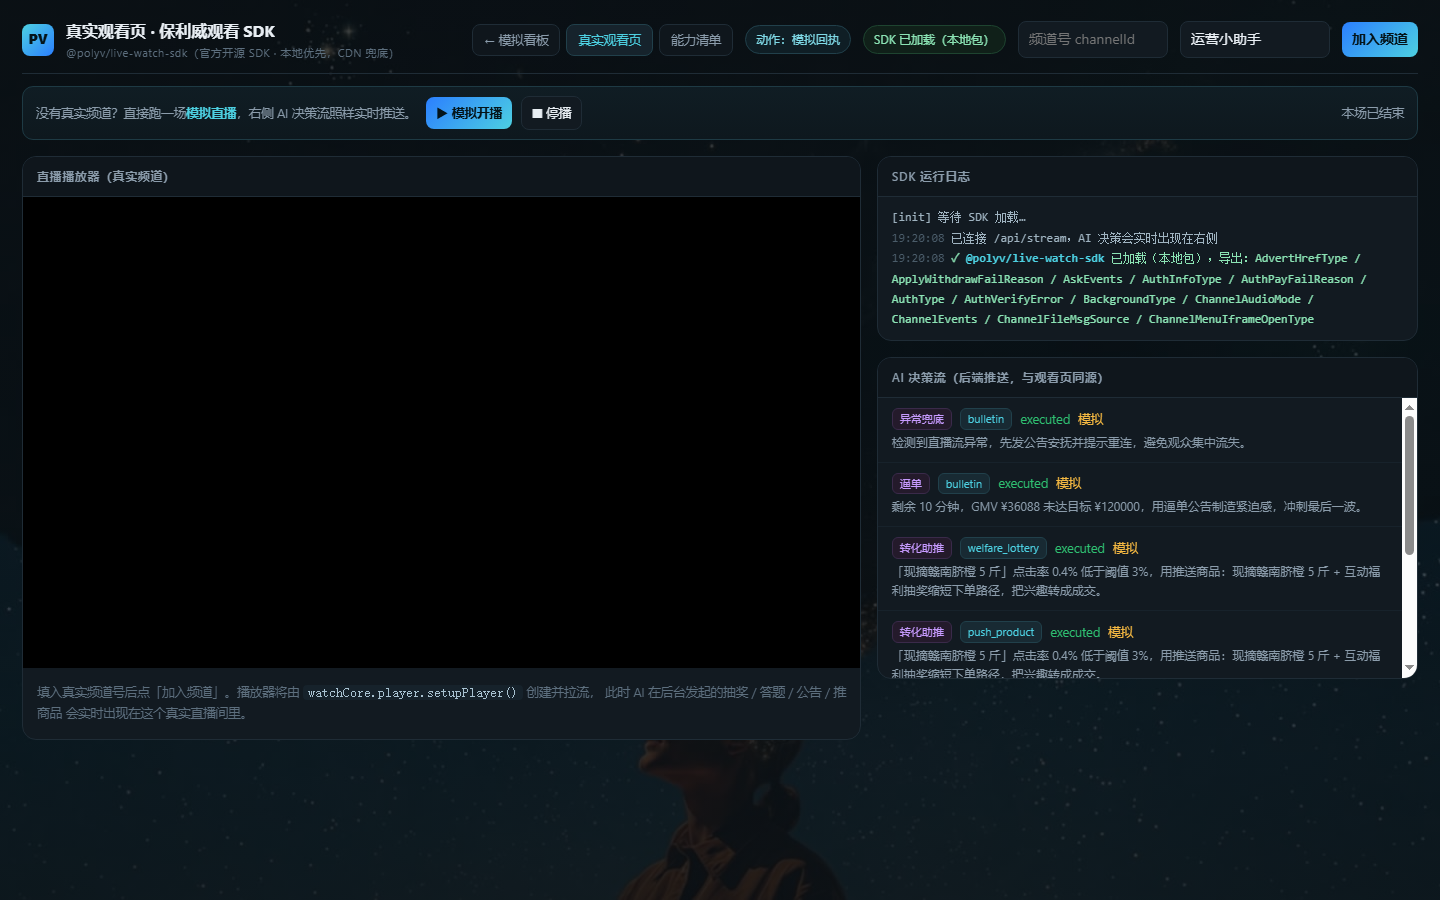
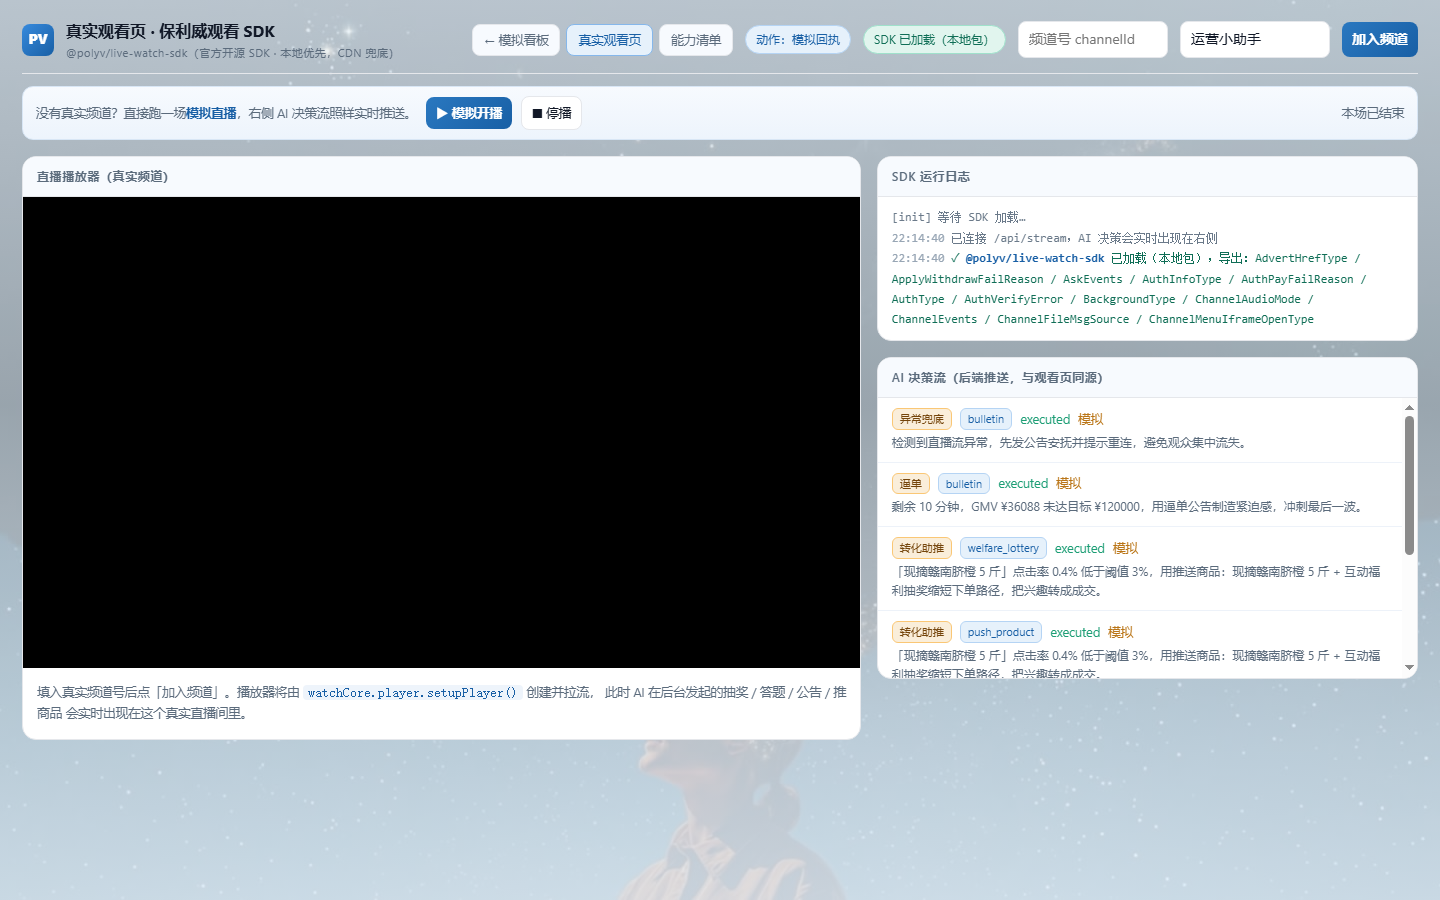
style(watch-lite): 观看页配色对齐驾驶舱主页 —— brand-50 底/白面板/gray-900 文字/brand-600 主色，遮罩改浅色薄纱保留背景视频

diff --git a/frontend/watch/index.html b/frontend/watch/index.html
@@ -5,32 +5,35 @@
 <meta name="viewport" content="width=device-width, initial-scale=1" />
 <title>LivePilot · 真实观看页（保利威观看 SDK）</title>
 <style>
-  :root{--bg:#0b1014;--panel:#121a21;--panel2:#0f161c;--line:#1f2c36;--txt:#e8eef3;--dim:#8b9cab;--faint:#5d6f7e;
-    --ai:#4dd0e1;--up:#ff5a5f;--ok:#2fbf71;--warn:#f5b942}
+  /* 调色板与驾驶舱主页（frontend/src + tailwind.config.ts）对齐：
+     底 brand-50 #E6F1FB / 面板 白 / 文字 gray-900 / 主色 brand-600 #185FA5，
+     success #1D9E75、danger #C33C3C、warn #BA7517 与主页语义色同源。 */
+  :root{color-scheme:light;--bg:#E6F1FB;--panel:#ffffff;--panel2:#F7FAFE;--line:#E5E7EB;--txt:#111827;--dim:#5B6B7C;--faint:#8A9AAB;
+    --ai:#185FA5;--up:#C33C3C;--ok:#1D9E75;--warn:#BA7517}
   *{box-sizing:border-box}
   body{margin:0;background:var(--bg);color:var(--txt);font:14px/1.6 "Segoe UI","PingFang SC","Microsoft YaHei",system-ui,sans-serif}
   .wrap{max-width:1440px;margin:0 auto;padding:18px 22px 40px}
   header{display:flex;align-items:center;gap:12px;padding-bottom:12px;border-bottom:1px solid var(--line);flex-wrap:wrap}
-  .logo{width:32px;height:32px;border-radius:8px;background:linear-gradient(135deg,#4dd0e1,#2b7fff);display:grid;place-items:center;color:#04141a;font-weight:800}
+  .logo{width:32px;height:32px;border-radius:8px;background:linear-gradient(135deg,#378ADD,#185FA5);display:grid;place-items:center;color:#fff;font-weight:800}
   h1{font-size:16px;margin:0}
-  h1 small{display:block;font-size:11px;color:var(--faint);font-weight:400;letter-spacing:.5px}
+  h1 small{display:block;font-size:11px;color:var(--dim);font-weight:400;letter-spacing:.5px}
   .spacer{flex:1}
   input,button{font:inherit;color:var(--txt);background:var(--panel);border:1px solid var(--line);border-radius:8px;padding:6px 10px;outline:none}
   input{width:150px}
   button{cursor:pointer}
-  button:hover{border-color:#31454f}
-  button.primary{background:linear-gradient(135deg,#2b7fff,#4dd0e1);color:#04141a;font-weight:700;border:0}
+  button:hover{border-color:#85B7EB}
+  button.primary{background:linear-gradient(135deg,#2A78C0,#185FA5);color:#fff;font-weight:700;border:0}
   .chip{padding:4px 10px;border-radius:999px;border:1px solid var(--line);background:var(--panel2);font-size:12px;color:var(--dim)}
-  .chip.ok{color:#8be3b4;border-color:#1e4430;background:#102019}
-  .chip.err{color:#ffb3b5;border-color:#3a2026;background:#1b1216}
-  .chip.mock{color:#7fd9e6;border-color:#21404b;background:#0f1e25}
+  .chip.ok{color:#0F6E56;border-color:#9FE1CB;background:#E1F5EE}
+  .chip.err{color:#A32D2D;border-color:#F7C1C1;background:#FCEBEB}
+  .chip.mock{color:#185FA5;border-color:#B5D4F4;background:#E6F1FB}
   a.navlink{display:inline-flex;align-items:center;gap:6px;padding:5px 11px;border-radius:8px;
     border:1px solid var(--line);background:var(--panel2);color:var(--dim);font-size:12.5px;text-decoration:none}
-  a.navlink:hover{border-color:#31454f;color:var(--txt)}
-  a.navlink.active{background:#16232c;color:var(--ai);border-color:#21404b}
+  a.navlink:hover{border-color:#85B7EB;color:var(--txt)}
+  a.navlink.active{background:#E6F1FB;color:#185FA5;border-color:#85B7EB}
   .navtabs{display:flex;gap:6px;align-items:center}
   .simbar{display:flex;align-items:center;gap:9px;margin-top:12px;padding:9px 13px;border-radius:11px;
-    border:1px solid #1e3a44;background:linear-gradient(180deg,#101d24,#0e181e);font-size:12.5px;color:var(--dim);flex-wrap:wrap}
+    border:1px solid #D8E6F5;background:linear-gradient(180deg,#F7FAFE,#EDF4FC);font-size:12.5px;color:var(--dim);flex-wrap:wrap}
   .simbar b{color:var(--ai)}
   .grid{display:grid;grid-template-columns:1.55fr 1fr;gap:16px;margin-top:16px;align-items:start}
   .panel{background:var(--panel);border:1px solid var(--line);border-radius:14px;overflow:hidden}
@@ -38,18 +41,18 @@
     border-bottom:1px solid var(--line);background:var(--panel2)}
   #player{width:100%;aspect-ratio:16/9;background:#000}
   .stack{display:grid;gap:16px}
-  .log{padding:10px 14px;max-height:300px;overflow:auto;font:12px/1.7 ui-monospace,Consolas,monospace;color:#9fb3c0}
+  .log{padding:10px 14px;max-height:300px;overflow:auto;font:12px/1.7 ui-monospace,Consolas,monospace;color:#6B7A8A}
   .log b{color:var(--ai);font-weight:600}
-  .log .e{color:#ffb3b5}
-  .log .s{color:#8be3b4}
-  .dec{padding:10px 14px;border-bottom:1px solid #17222b;font-size:12.5px}
+  .log .e{color:#A32D2D}
+  .log .s{color:#0F6E56}
+  .dec{padding:10px 14px;border-bottom:1px solid #EDF2F9;font-size:12.5px}
   .dec:last-child{border:0}
   .dec .t{display:flex;gap:8px;align-items:center;flex-wrap:wrap}
-  .tag{font-size:11px;padding:1px 7px;border-radius:6px;background:#182a33;color:var(--ai);border:1px solid #21404b}
-  .tag.rule{background:#241a2b;color:#c79bff;border-color:#3a2a4a}
+  .tag{font-size:11px;padding:1px 7px;border-radius:6px;background:#E6F1FB;color:#185FA5;border:1px solid #B5D4F4}
+  .tag.rule{background:#FAEEDA;color:#74440A;border-color:#FAC775}
   .dec .r{color:var(--dim);font-size:12px;margin-top:3px}
-  .hint{padding:14px;color:var(--faint);font-size:12.5px;line-height:1.7}
-  .hint code{background:#16222b;padding:1px 5px;border-radius:4px;color:#a8c2d1}
+  .hint{padding:14px;color:var(--dim);font-size:12.5px;line-height:1.7}
+  .hint code{background:#EEF4FB;padding:1px 5px;border-radius:4px;color:#185FA5}
   @media (max-width:1080px){.grid{grid-template-columns:1fr}}
   /* ---- 背景层（参考站同款：循环视频 + 本地抽帧兜底 + 遮罩） ----
      层级：body 底色 --bg（最终回退） < #bgPoster（本地抽帧） < #bgVideo（远端循环视频） < #bgScrim（遮罩） < 页面内容。
@@ -57,7 +60,8 @@
   #bgFx{position:fixed;inset:0;z-index:-1;overflow:hidden;pointer-events:none}
   #bgPoster{position:absolute;inset:0;background:url("./assets/bg-poster.jpg") center bottom/cover no-repeat}
   #bgVideo{position:absolute;inset:0;width:100%;height:100%;object-fit:cover;object-position:center bottom;opacity:0}
-  #bgScrim{position:absolute;inset:0;background:linear-gradient(180deg,rgba(11,16,20,.82) 0%,rgba(11,16,20,.66) 45%,rgba(11,16,20,.86) 100%)}
+  /* 遮罩改为 brand-50 同色系的浅色薄纱：页面整体读作浅色（与主页一致），视频/星空仍隐约透出 */
+  #bgScrim{position:absolute;inset:0;background:linear-gradient(180deg,rgba(230,241,251,.80) 0%,rgba(230,241,251,.66) 45%,rgba(230,241,251,.86) 100%)}
   /* 竖屏/窄屏换竖版抽帧，避免横图裁掉主体；视频端 object-fit:cover 自适应 */
   @media (max-width:760px),(max-aspect-ratio:3/4){#bgPoster{background-image:url("./assets/bg-poster-portrait.jpg")}}
 </style>
@@ -126,7 +130,7 @@ const log = (msg, cls) => {
   const t = new Date().toLocaleTimeString('zh-CN', { hour12: false });
   const div = document.createElement('div');
   if (cls) div.className = cls;
-  div.innerHTML = `<span style="color:#4a5c69">${t}</span> ${msg}`;
+  div.innerHTML = `<span style="color:#98A6B5">${t}</span> ${msg}`;
   logBox.appendChild(div);
   logBox.scrollTop = logBox.scrollHeight;
 };
@@ -243,8 +247,8 @@ function renderDecisions(state) {
       <div class="t">
         <span class="tag rule">${d.rule || '规则'}</span>
         <span class="tag">${d.action}</span>
-        <span style="color:${d.status === 'executed' ? '#2fbf71' : '#f5b942'}">${d.status}</span>
-        ${d.result ? `<span style="color:${d.result.mock ? '#f5b942' : '#2fbf71'}">${d.result.mock ? '模拟' : '真实'}</span>` : ''}
+        <span style="color:${d.status === 'executed' ? '#1D9E75' : '#BA7517'}">${d.status}</span>
+        ${d.result ? `<span style="color:${d.result.mock ? '#BA7517' : '#1D9E75'}">${d.result.mock ? '模拟' : '真实'}</span>` : ''}
       </div>
       <div class="r">${d.reason || ''}</div>
     </div>`).join('');
